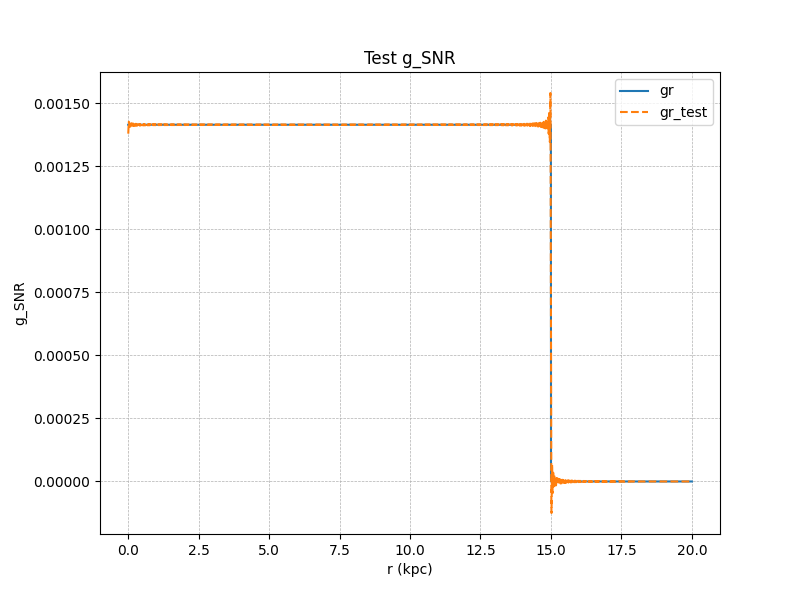
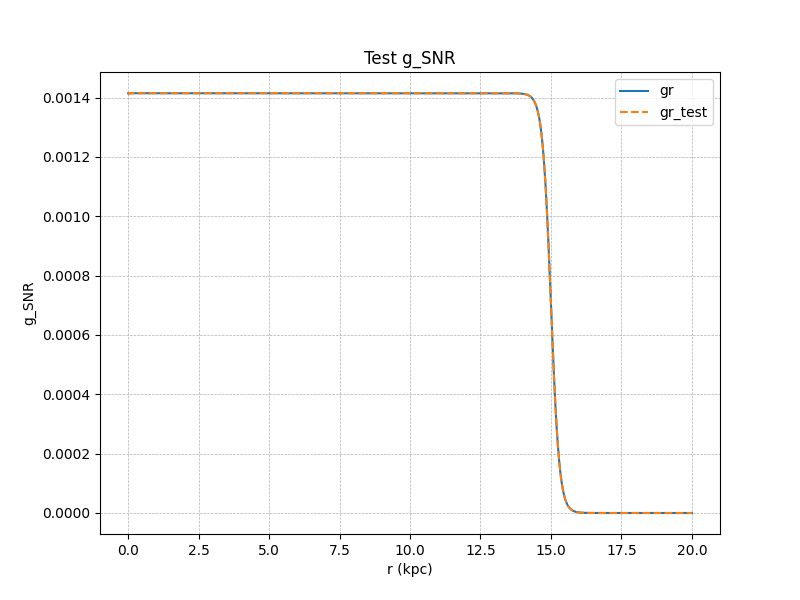
update

diff --git a/ex1.py b/ex1.py
@@ -24,10 +24,13 @@ def func_gSNR(r): # r (kpc)
     )
     return gSNR # kpc^-2
 
+def func_gSNR_2(r, Rs=15.0, eps=0.3):  # Rs: cutoff radius, eps: smoothing width
+    return (1.0 / (np.pi * Rs**2)) * 0.5 * (1.0 - np.tanh((r - Rs) / eps))
+
 # Verify the accuracy of the function g_SNR
 def func_coeff_gSNR(R, zeros_j0):
     r = np.linspace(0, R, 10000)
-    gr = func_gSNR(r) * r**0
+    gr = func_gSNR_2(r, Rs=15.0, eps=0.3) * r**0
     dr = np.append(np.diff(r),0)
 
     j0_n = sp.special.j0(zeros_j0[:,np.newaxis] * r[np.newaxis,:] / R)

diff --git a/bt1.py b/bt1.py
@@ -16,7 +16,7 @@ def func_D(E):
     return D 
 
 
-#Đồ thị từ data:
+#  Đồ thị từ data:
 filename = 'plot_data_flux_p_AMS.dat'
 Ea, jE_AMS, err_Ea, err_jE_AMS = np.loadtxt(filename, unpack=True, usecols=[0,1,2,3])
 
